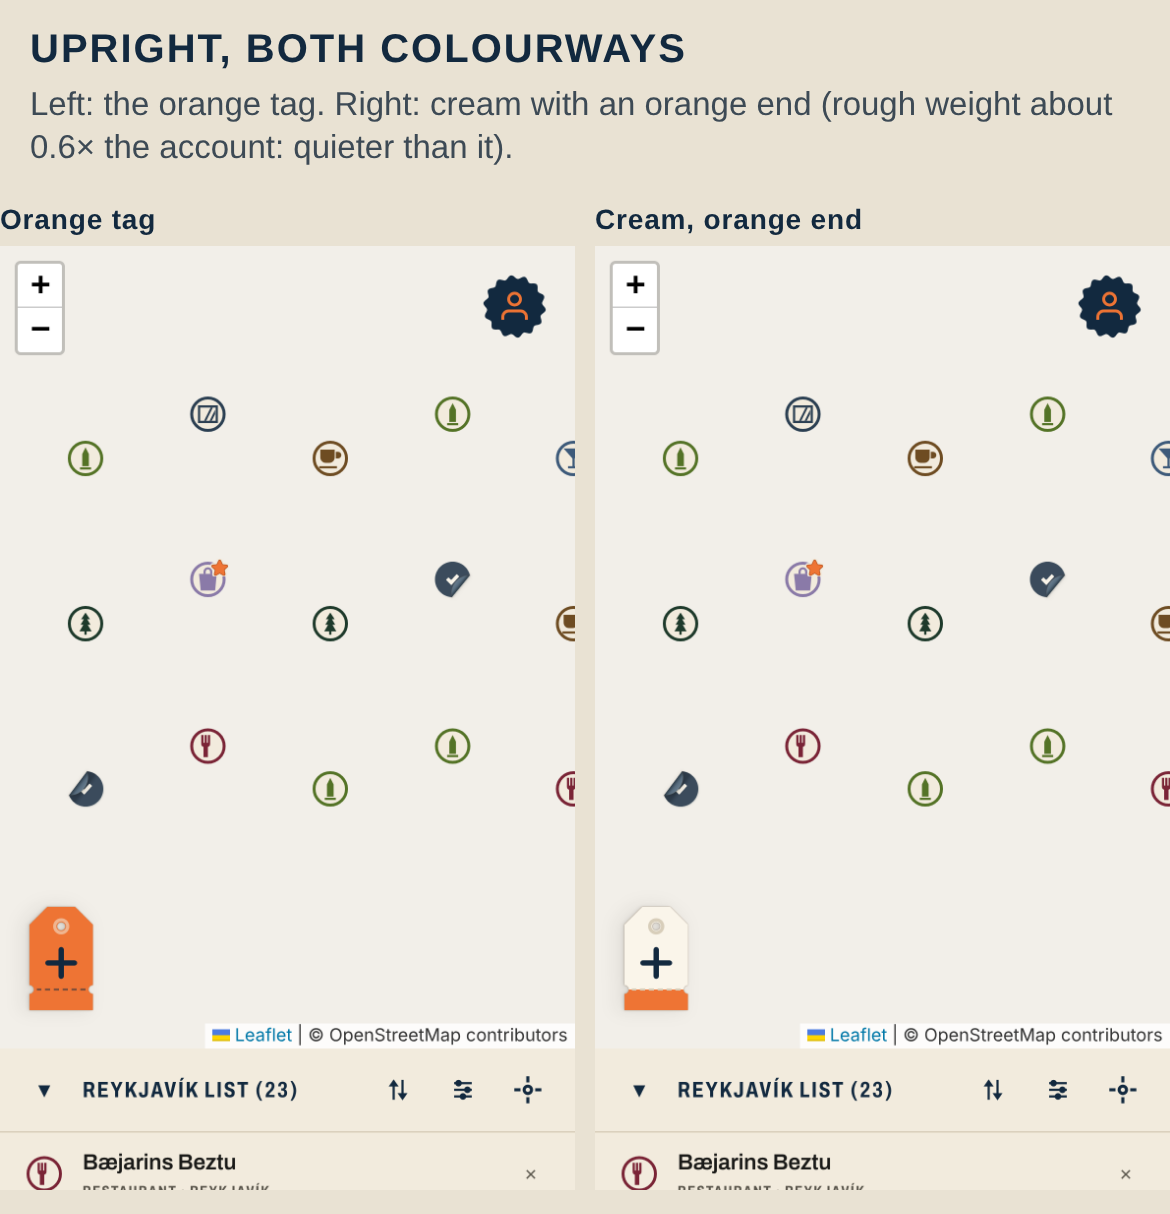
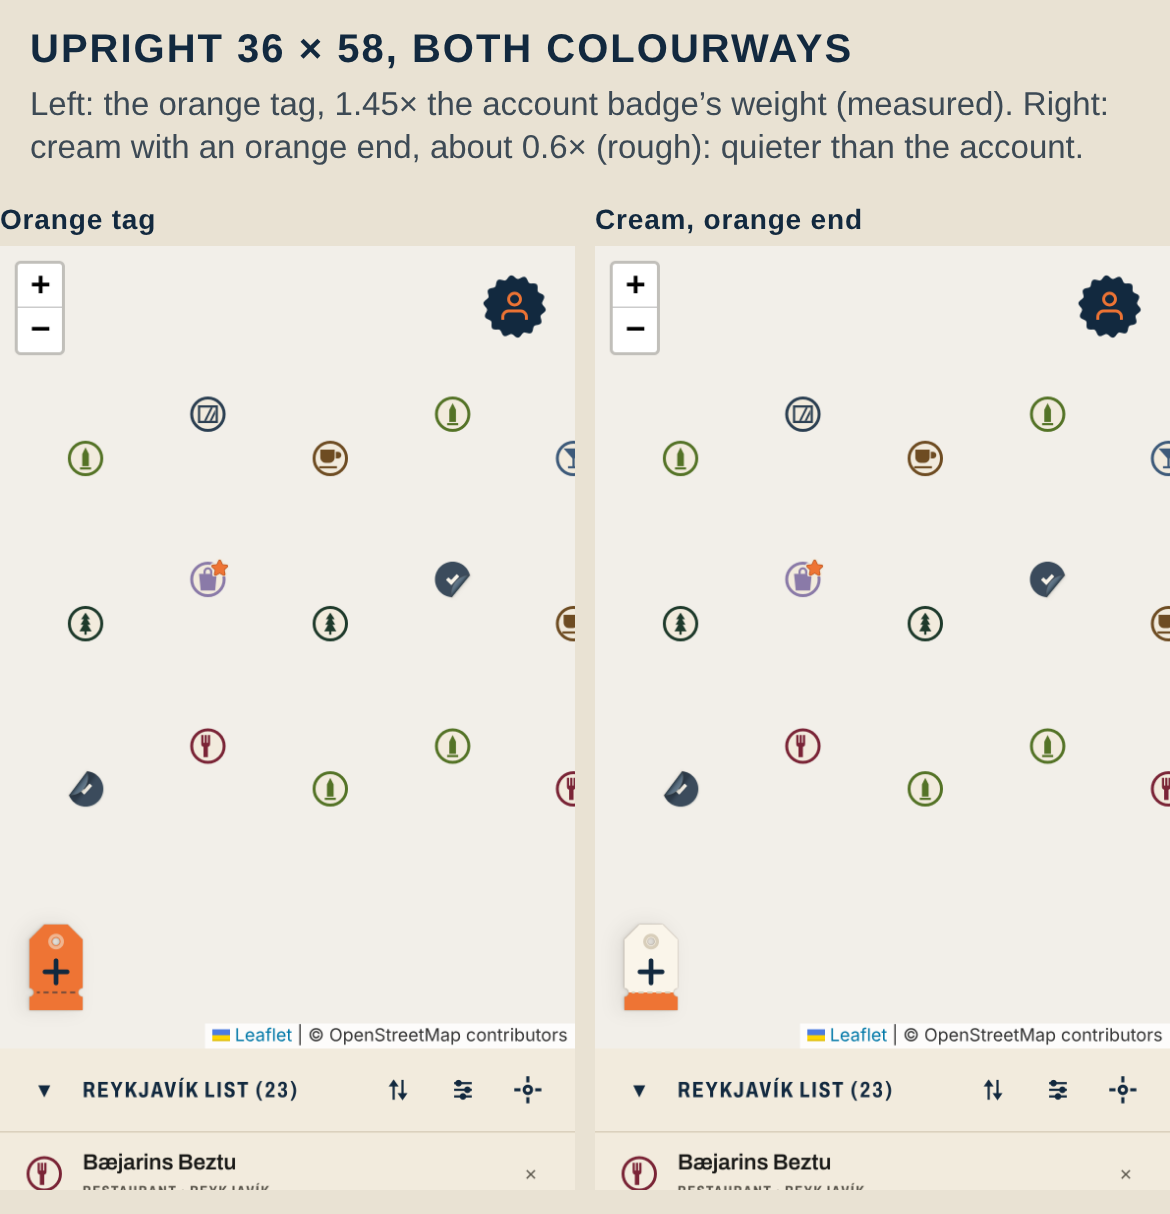
+ placement: V5 at 36x58 (visual)

Changed region(s): [[0.0308, 0.0305, 0.9538, 0.1524], [0.0308, 0.7315, 0.0923, 0.8534], [0.5231, 0.7619, 0.5846, 0.8229]]

diff --git a/design/add-button-placement/concepts/blank-tag-form/compose.js b/design/add-button-placement/concepts/blank-tag-form/compose.js
@@ -198,8 +198,8 @@ const pages = {
   [R11 + 'V4-upright-real-size-3x.png']: `${cap('C upright at real size', 'As your phone shows it, with the app’s own pins and the account badge.')}
      ${crop1(f('r11v-orange-p4-up-1x'), 0, 0, 390, 544, 3)}
      ${note('Rough weight (systems re-measures): about 2× the account badge, the same as lying flat; it stands 27px taller and takes 27px less width.')}`,
-  [R11 + 'V5-upright-colourways-3x.png']: `${cap('Upright, both colourways', 'Left: the orange tag. Right: cream with an orange end (rough weight about 0.6× the account: quieter than it).')}
-     ${pair(f('r11v-orange-p4-up'), 'Orange tag', f('r11v-twoend-p4-up'), 'Cream, orange end', 640)}<div class="gap"></div>`,
+  [R11 + 'V5-upright-colourways-3x.png']: `${cap('Upright 36 × 58, both colourways', 'Left: the orange tag, 1.45× the account badge’s weight (measured). Right: cream with an orange end, about 0.6× (rough): quieter than the account.')}
+     ${pair(f('r11v-orange-p6-up'), 'Orange tag', f('r11v-twoend-p6-up'), 'Cream, orange end', 640)}<div class="gap"></div>`,
   [R11 + 'V7-short-upright-3x.png']: `${cap('A shorter upright: 36 × 58', 'Left: 36 × 58. Right: 43 × 70. Both at real size (1x as your phone shows it), then at twice that so the hole, the dotted line and the end can be checked. Below: a place’s tag open in Safari, with 3 list rows still showing.')}
      <div class="row" style="padding:0 30px;gap:30px;align-items:flex-end">${col('36 × 58, real size', crop1(f('r11v-orange-p6-up-1x'), 0, 450, 90, 527, 3), 270)}${col('43 × 70, real size', crop1(f('r11v-orange-p4-up-1x'), 0, 440, 90, 527, 3), 270)}</div>
      <div class="row" style="padding:12px 30px 0;gap:30px;align-items:flex-end">${col('36 × 58, ×2', crop1(f('r11v-orange-p6-up-1x'), 0, 450, 90, 527, 6), 540)}${col('43 × 70, ×2', crop1(f('r11v-orange-p4-up-1x'), 0, 440, 90, 527, 6), 540)}</div>

diff --git a/design/add-button-placement/concepts/blank-tag-form/stills.js b/design/add-button-placement/concepts/blank-tag-form/stills.js
@@ -229,6 +229,7 @@ F['r11v-orange-p4-up-tag664'] = { k: 'T:orange:104:0:p4:up', vp: V664, run: p =>
 
 // round 11b: the short upright (36 x 58)
 both('r11v-orange-p6-up', { k: 'T:orange:104:0:p6:up', zoom: true, centre: CREST });
+both('r11v-twoend-p6-up', { k: 'T:twoend:104:0:p6:up', zoom: true, centre: CREST });
 F['r11v-orange-p6-up-tag664'] = { k: 'T:orange:104:0:p6:up', vp: V664, run: p => openPlace(p, 'Brauð & Co, the cinnamon bakery on Frakkastígur') };
 
 (async () => {

diff --git a/design/add-button-placement/notes/director.md b/design/add-button-placement/notes/director.md
@@ -1476,3 +1476,4 @@ V2, V1, V5 (+ V7 if 36 × 58 is picked).
 Check V7 → release.
 - 2026-10-15: 11b checked. Upright 36x58 picked (1.45x account, 3 rows kept). Lean send released: V2, V7, V1. Next: his call -> handoff.md vs owner.md.
 - 2026-10-15: V5 to be re-shot at 36x58 (both colourways) and replaces V1 in the send; release after check.
+- 2026-10-15: V5 checked; 3-still send (V2, V7, V5) released.

diff --git a/design/add-button-placement/scores.md b/design/add-button-placement/scores.md
@@ -2098,3 +2098,7 @@ Evidence: V2 (choice), V1, V5.
 3. /home/user/triplet/design/add-button-placement/concepts/C-tag-r11/V5-upright-colourways-3x.png (re-shot at 36 × 58)
 
 The cost lines are unchanged.
+
+### V5 re-shoot checked -- 3-still send RELEASED (2026-10-15)
+- V5 is at 36 x 58 in both colourways, with honest weights in the caption.
+- The send is V2, V7, V5, with the 11b cost lines.
